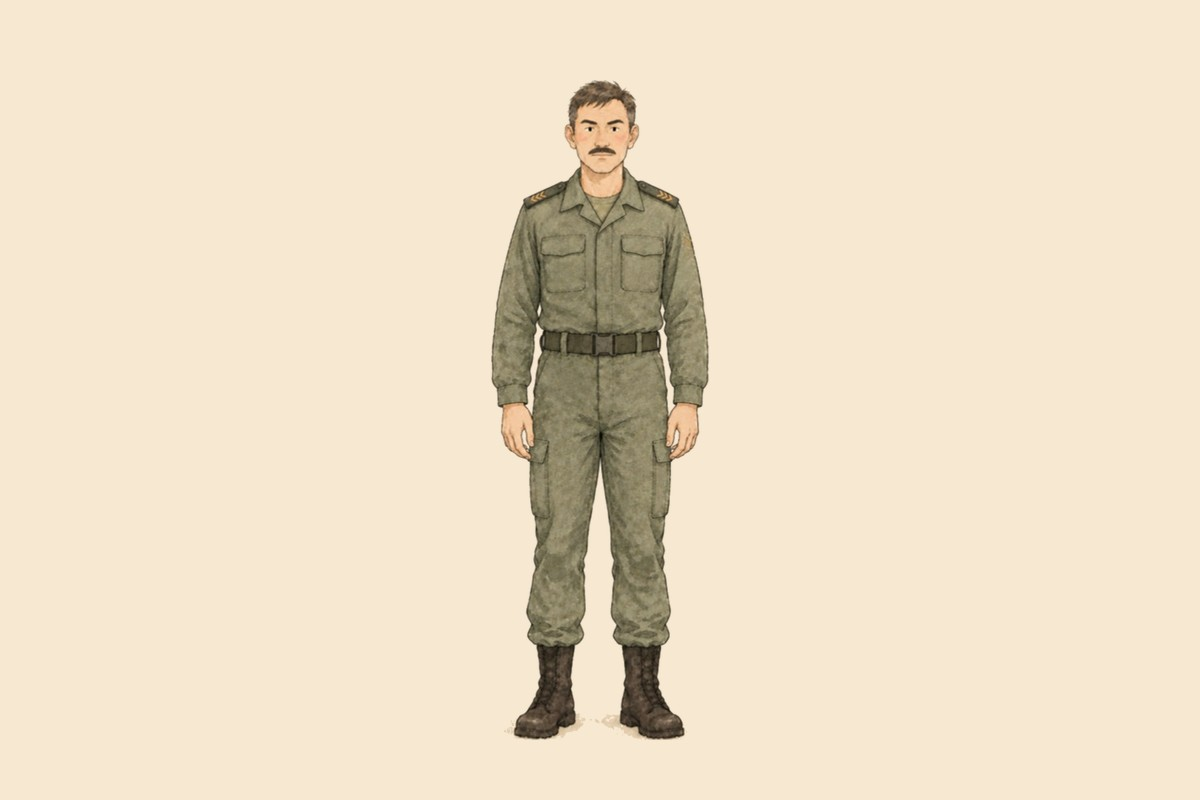
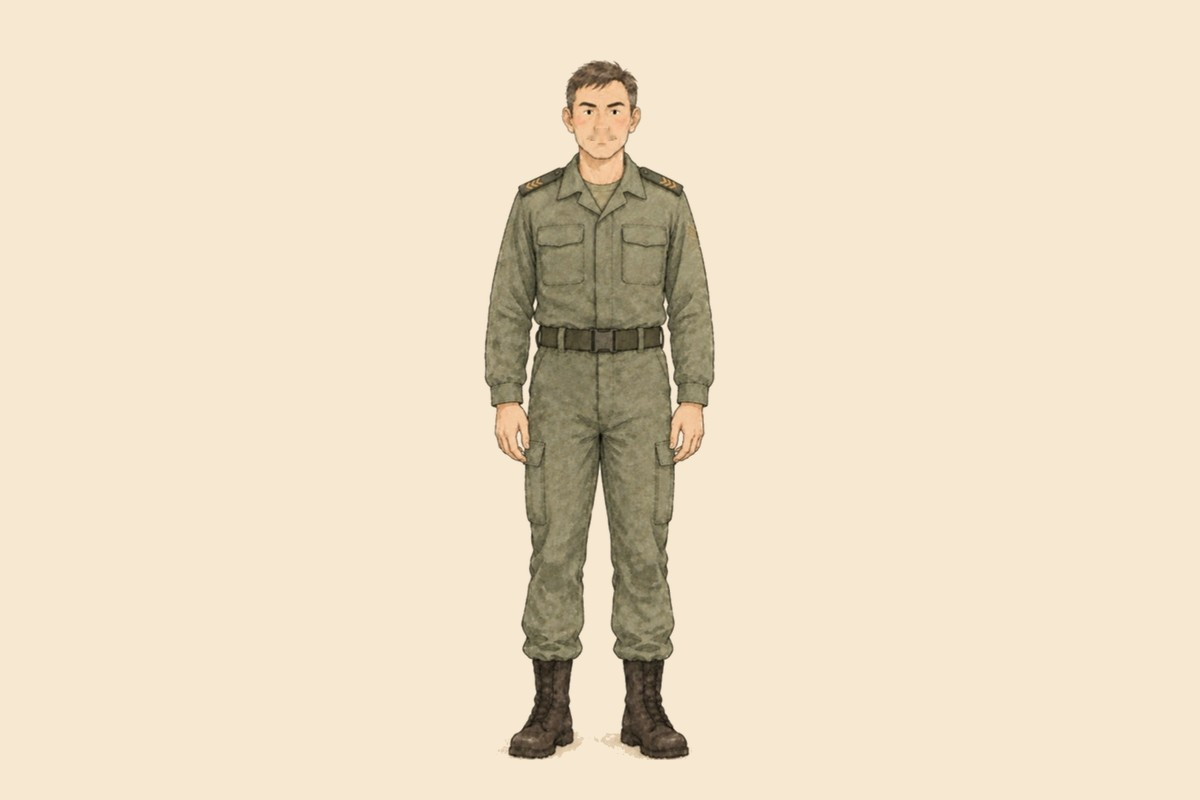
Viki: aile çizimlerinde boy ve yerleşim; Çağrı Babacan bıyıksız (portre ve boy)
Claude-Session: https://claude.ai/code/session_01CqmBomUoj7kxT4HXbmEom1

Changed region(s): [[0.4008, 0.0625, 0.6167, 0.9688]]

diff --git a/src/lib/yolHaritasi.ts b/src/lib/yolHaritasi.ts
@@ -358,7 +358,7 @@ export const YOL_HARITASI: YolIsi[] = [
   { id: 'viki-gorsel-sayisi', paket: 'K', kimde: 'claude', nereden: '14 Kasım · Kemal', bitti: true,
     ad: 'Vikiyi ajansa gönder: her maddenin görsel sayısı ve KKM\'deki görsel adresleri de gider (ajans görseli olmayan maddelere görsel bulsun)' },
   { id: 'viki-gorselsiz-maddeler', paket: 'K', kimde: 'claude', nereden: '14 Kasım · Kemal', bitti: true,
-    ad: 'Görseli olmayan viki maddelerine görsel: dört aileye üyelerinin bir arada çizimi (Alimyeri Ailesi gibi), Dirlik ve Sürek Kulübü logoları, Yağ Fabrikası 3B' },
+    ad: 'Görseli olmayan viki maddelerine görsel: dört aileye üyelerinin bir arada çizimi (Alimyeri Ailesi gibi), Dirlik ve Sürek Kulübü logoları, Yağ Fabrikası 3B; Çağrı Babacan\'ın portresi ve boy çizimi bıyıksız (Kemal, 14 Kasım)' },
   // sırası belli değil
   { id: 'teknik-foy', uzak: true, paket: 'M', ad: 'Ürünlere teknik föy (tech pack): ölçü tablosu, malzeme, renk, etiket', nereden: '1 Ekim', kimde: 'kemal', not: 'Kemal isterse; 3B stüdyo kaldırıldı (1 Ekim gece).' },
   { id: 'merch-kisa-liste', paket: 'K', kimde: 'claude', nereden: '3 Kasım · Kemal', bitti: true,
